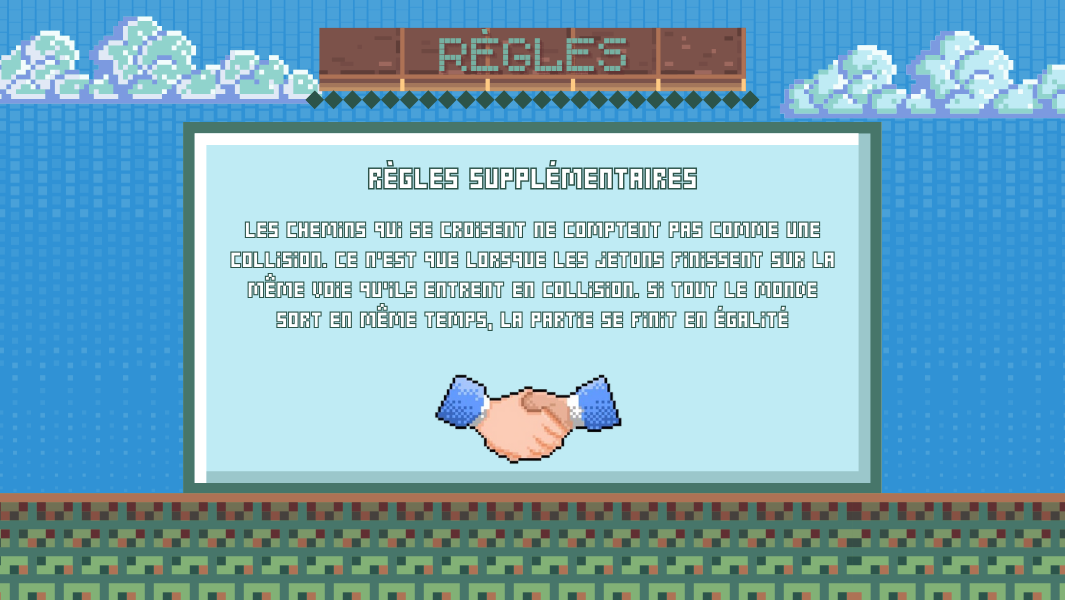
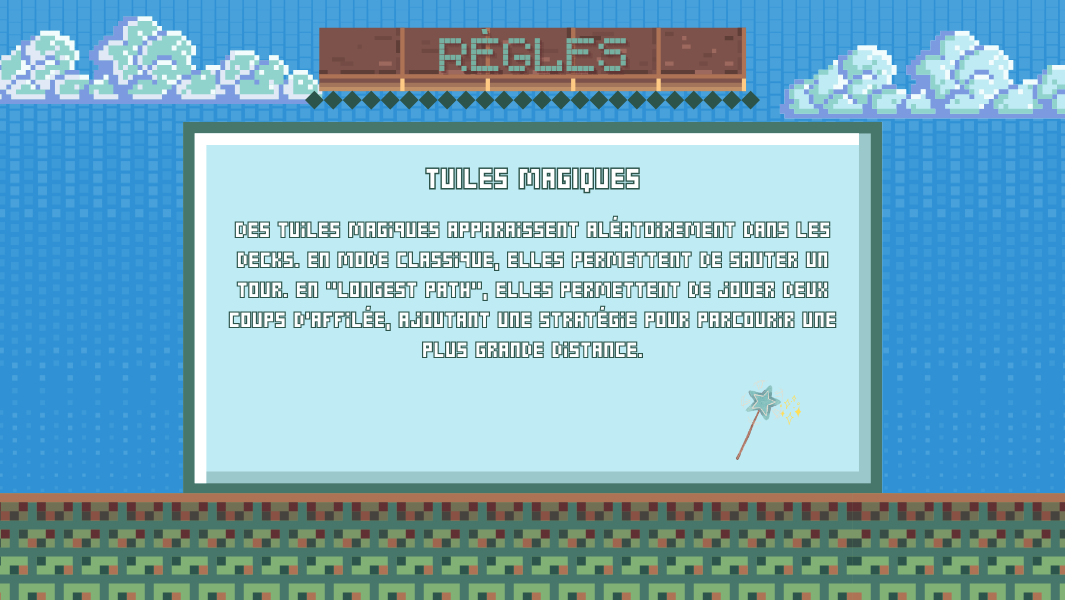
Ajout de ressources des boutons et ajout d'une page de règles

diff --git a/src/main/java/menu/Rules.java b/src/main/java/menu/Rules.java
@@ -21,7 +21,8 @@ public class Rules {
             "src/main/resources/rulesImage4.png",
             "src/main/resources/rulesImage5.png",
             "src/main/resources/rulesImage6.png",
-            "src/main/resources/rulesImage7.png"
+            "src/main/resources/rulesImage7.png",
+            "src/main/resources/rulesImage8.png"
     };
     private static JPanel buttonPanel;
     // Panneau global pour les boutons de navigation
